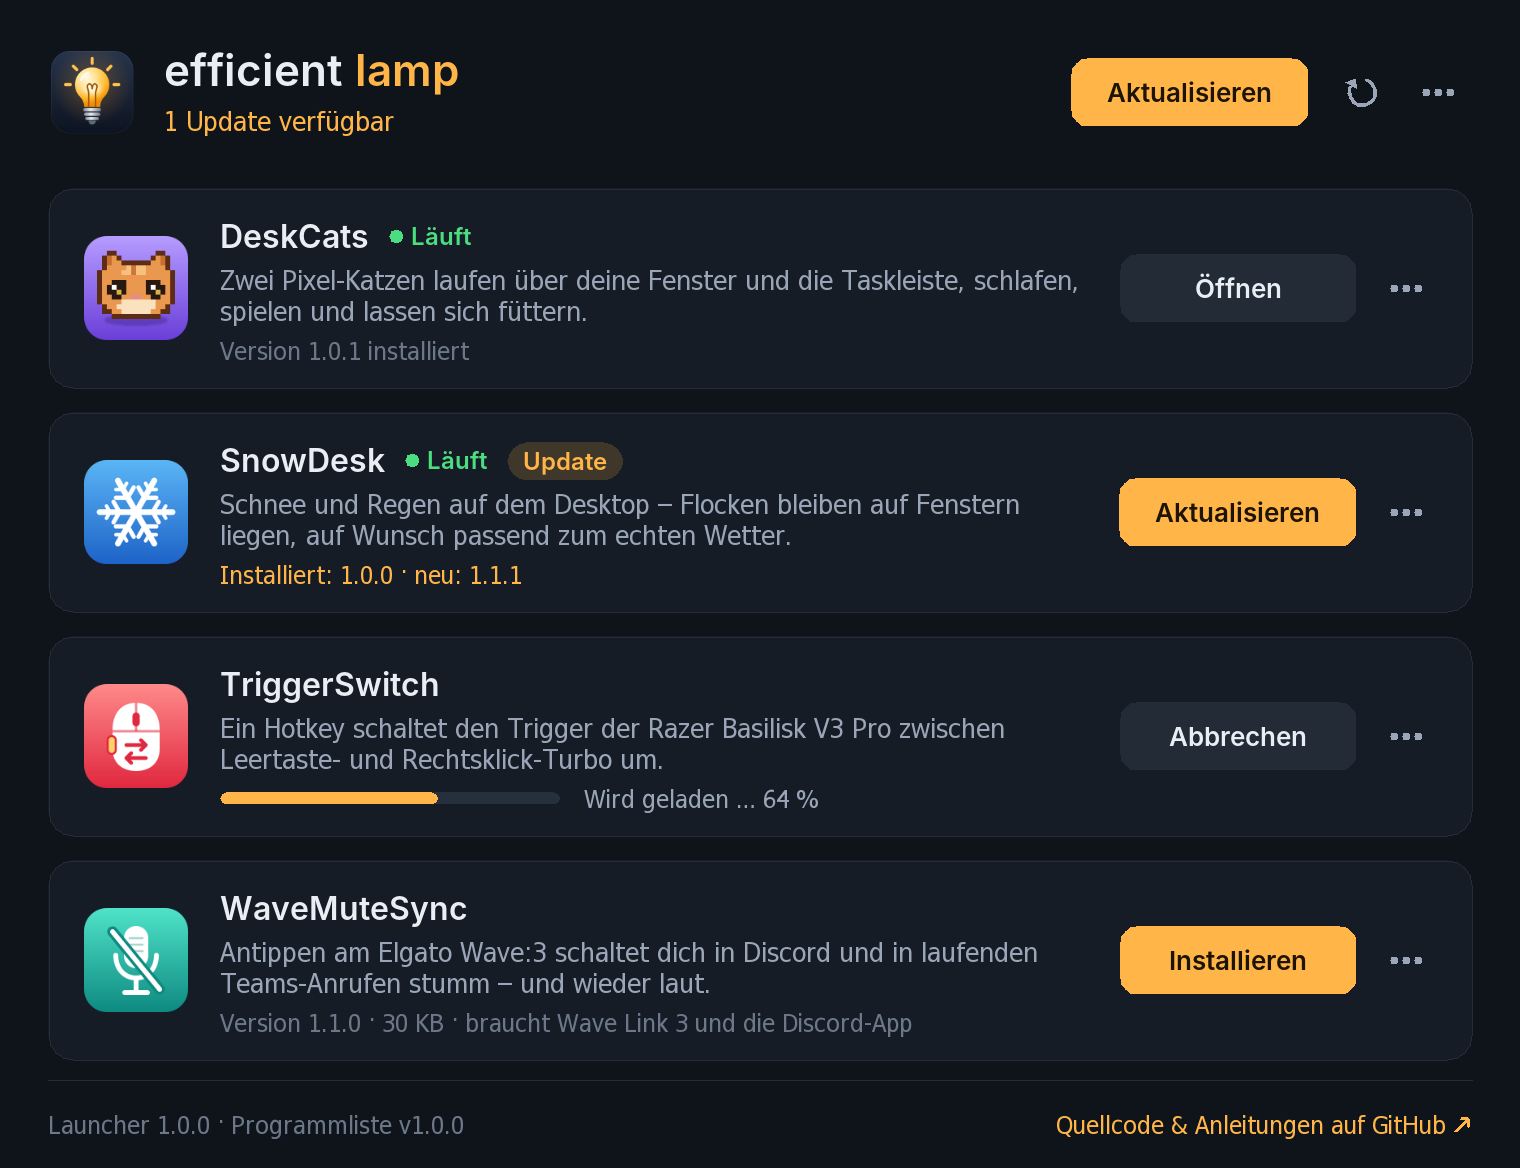
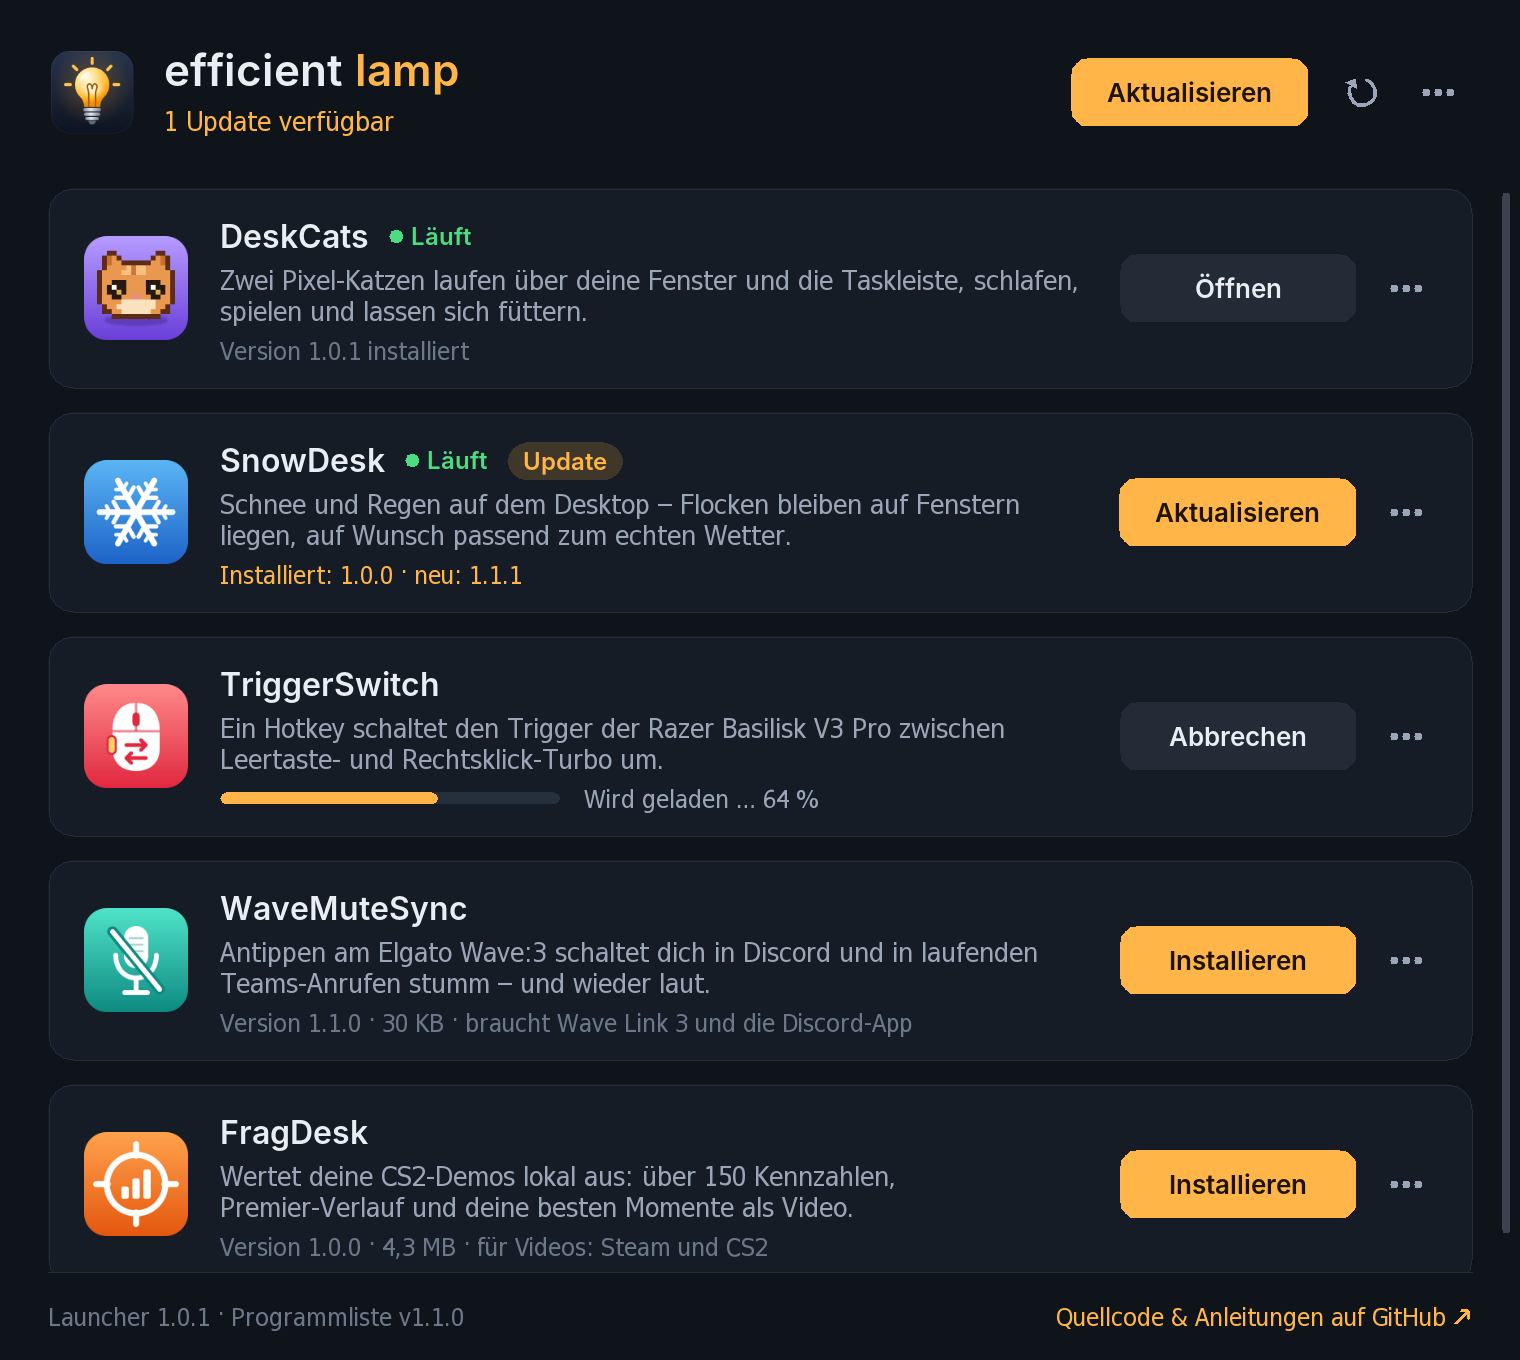
Launcher 1.0.1: Kachel für FragDesk
Claude-Session: https://claude.ai/code/session_014LCnqc7hbAyfMscsWY5EW1

diff --git a/launcher/src/win/ui.cpp b/launcher/src/win/ui.cpp
@@ -264,7 +264,8 @@ public:
         theme_ = makeTheme(dark_);
         logo_.reset(loadPngResource(inst, IDR_LOGO));
         const std::pair<const char*, int> tiles[] = {
-            {"deskcats", IDR_TILE_DESKCATS}, {"snowdesk", IDR_TILE_SNOWDESK}, {"triggerswitch", IDR_TILE_TRIGGERSWITCH}, {"wavemutesync", IDR_TILE_WAVEMUTESYNC}};
+            {"deskcats", IDR_TILE_DESKCATS},           {"snowdesk", IDR_TILE_SNOWDESK},         {"triggerswitch", IDR_TILE_TRIGGERSWITCH},
+            {"wavemutesync", IDR_TILE_WAVEMUTESYNC}, {"fragdesk", IDR_TILE_FRAGDESK}};
         for (const auto& t : tiles) tiles_[t.first].reset(loadPngResource(inst, t.second));
         if (opt.welcome) setBanner(BannerKind::Welcome, L"efficient lamp ist eingerichtet – du findest es ab jetzt im Startmenü.");
         if (opt.updated) setBanner(BannerKind::Updated, std::wstring(L"Der Launcher ist jetzt auf Version ") + kVersion + L".");

diff --git a/launcher/src/win/common.h b/launcher/src/win/common.h
@@ -8,8 +8,8 @@
 namespace lamp {
 
 constexpr const wchar_t* kAppName = L"efficient lamp";
-constexpr const wchar_t* kVersion = L"1.0.0";
-constexpr const char* kVersionA = "1.0.0";
+constexpr const wchar_t* kVersion = L"1.0.1";
+constexpr const char* kVersionA = "1.0.1";
 constexpr const wchar_t* kRepoUrl = L"https://github.com/Micha040/effective-lamp";
 constexpr const wchar_t* kCatalogUrl = L"https://github.com/Micha040/effective-lamp/releases/latest/download/catalog.json";
 constexpr const wchar_t* kExeName = L"EfficientLamp.exe";

diff --git a/launcher/res/resource.h b/launcher/res/resource.h
@@ -6,3 +6,4 @@
 #define IDR_TILE_SNOWDESK 111
 #define IDR_TILE_TRIGGERSWITCH 112
 #define IDR_TILE_WAVEMUTESYNC 113
+#define IDR_TILE_FRAGDESK 114
